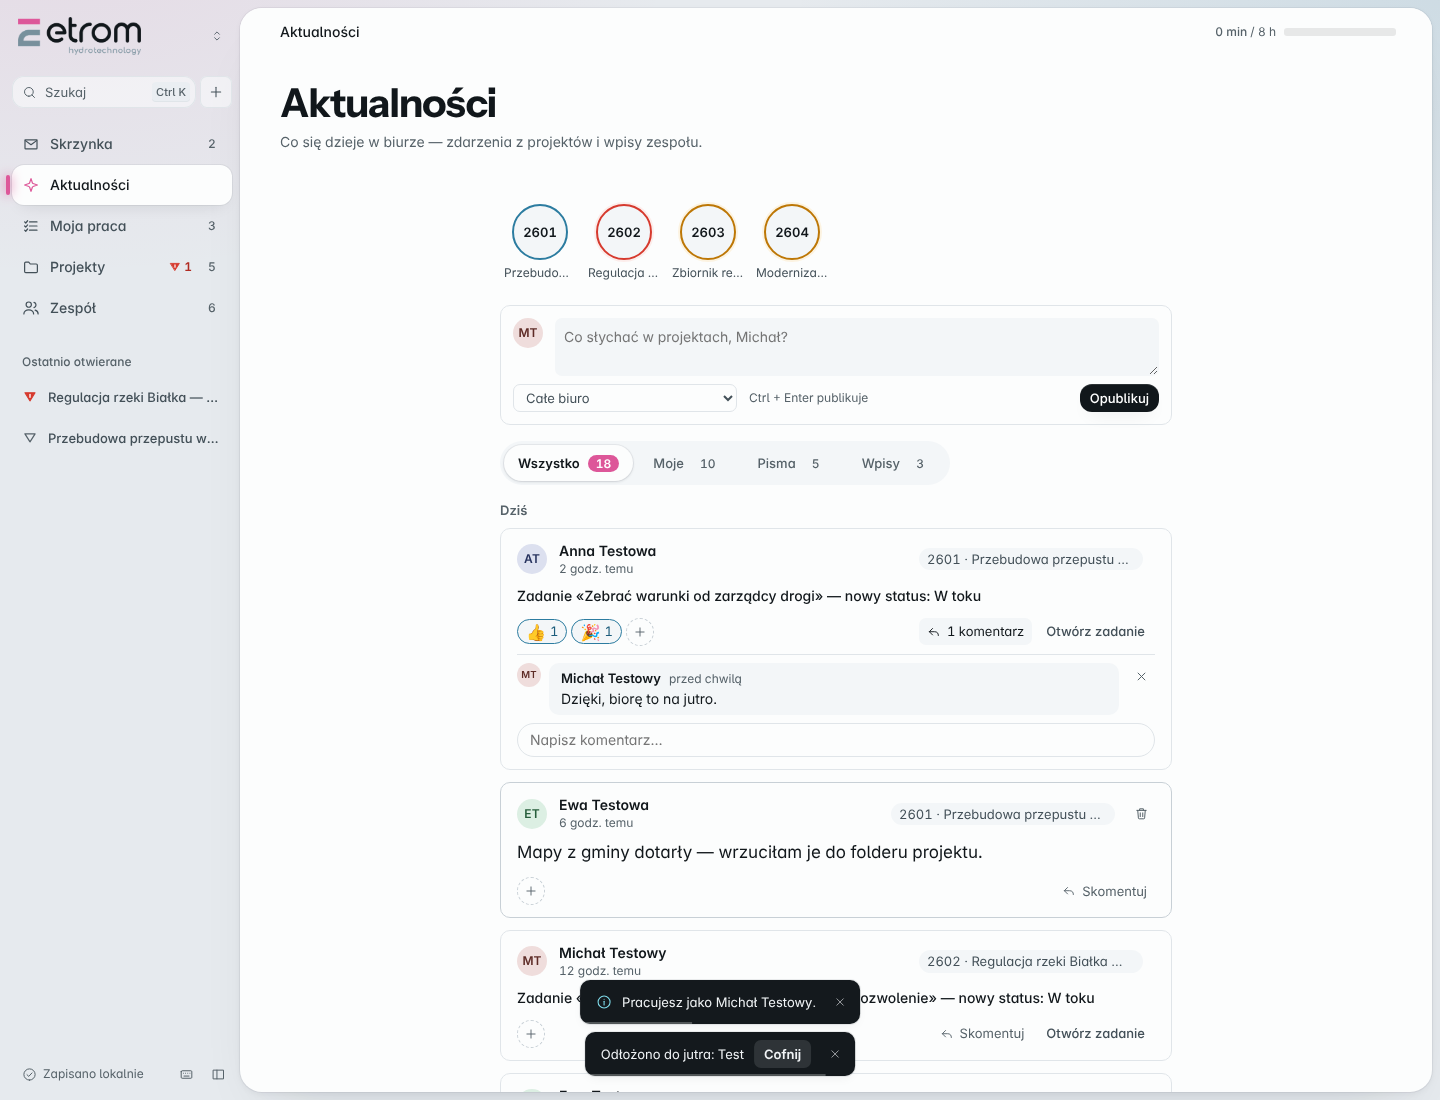
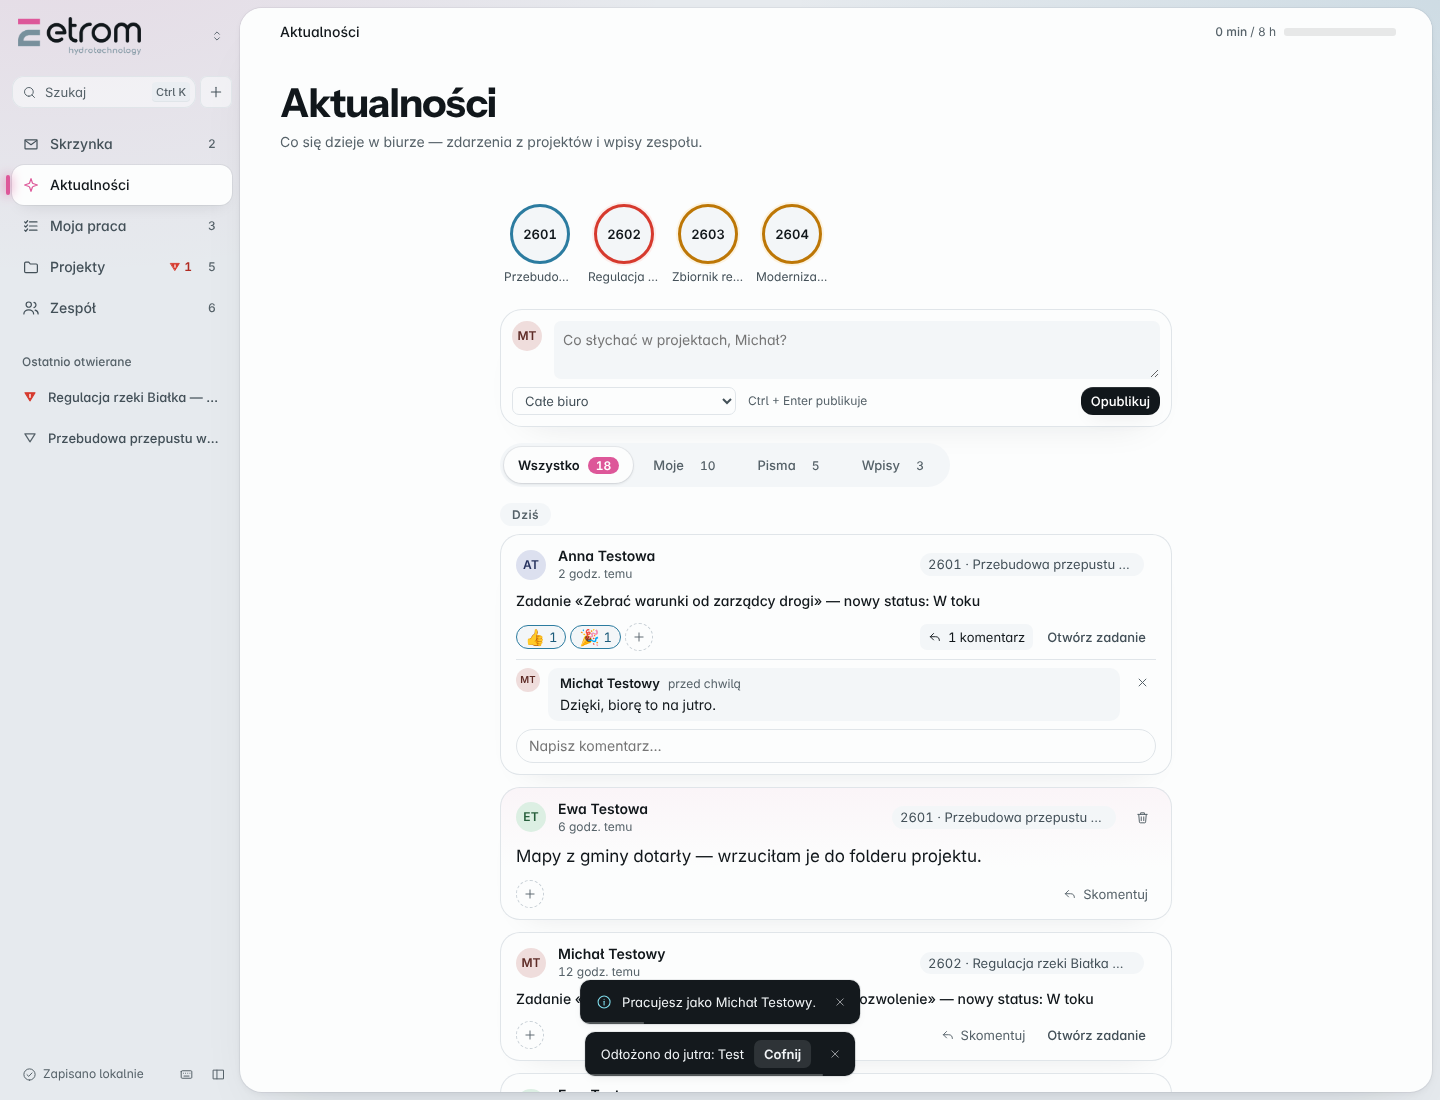
Moja praca, Skrzynka, Aktualności: wiersze-karty, powitanie, panele boczne jako karty
Claude-Session: https://claude.ai/code/session_01K4hy1AbaUhrYWgauQ4MMbV

diff --git a/styles/polish.css b/styles/polish.css
@@ -124,3 +124,38 @@ body, .app {
 .jr__label { position: absolute; top: 2.25rem; left: -0.25rem; white-space: nowrap; font-size: var(--fs-xs, .75rem); font-weight: 600; color: var(--ink); }
 @keyframes jr-pulse { 0%, 100% { box-shadow: 0 0 0 4px var(--flow-ring); } 50% { box-shadow: 0 0 0 9px transparent; } }
 @media (prefers-reduced-motion: reduce) { .jr__node--working.is-current .jr__dot { animation: none; } }
+
+/* =========================================================
+   Moja praca i Skrzynka: wiersze-karty, miękkie panele boczne
+   ========================================================= */
+.msec__head { margin-bottom: var(--space-2); }
+.msec__title { font-size: .75rem; letter-spacing: .08em; }
+.mrows, .ibx__list { display: grid; gap: 8px; border-top: 0; }
+.mrow, .ibx__row {
+  border: 0; border-radius: 16px; background: var(--sheet);
+  box-shadow: inset 0 0 0 1px var(--line);
+  padding-inline: var(--space-4);
+  transition: transform .18s cubic-bezier(.2,.8,.2,1), box-shadow .18s, background-color .18s;
+}
+.mrow:hover, .ibx__row:hover { background: var(--sheet); transform: translateY(-2px); box-shadow: inset 0 0 0 1px var(--line-strong), 0 14px 26px -18px var(--shadow-tint); }
+.ibx__row.is-urgent { box-shadow: inset 4px 0 0 var(--alarm), inset 0 0 0 1px color-mix(in srgb, var(--alarm) 30%, var(--line)); }
+.mrow.trow--overdue, .mrow[class*="overdue"] { box-shadow: inset 4px 0 0 var(--alarm), inset 0 0 0 1px color-mix(in srgb, var(--alarm) 30%, var(--line)); }
+.mrow__title .trow__name, .ibx__title { font-size: 1.0625rem; font-weight: 650; letter-spacing: -0.005em; }
+.ibx__kind { display: grid; place-items: center; width: 2rem; height: 2rem; border-radius: 50%; background: var(--wash); }
+.ibx__row.is-urgent .ibx__kind { background: var(--alarm-wash); }
+
+/* panel boczny „Dzisiaj” i „Moje projekty” jako karty */
+.mywork__aside > * { padding: var(--space-4); border-radius: 18px; background: var(--wash); box-shadow: inset 0 0 0 1px var(--line); }
+.mywork__aside { display: grid; gap: var(--space-3); align-content: start; }
+.mproject { padding: var(--space-2) 0; }
+
+/* strumień Aktualności: karty z głębią */
+.fd__card { border: 0; border-radius: 20px; box-shadow: inset 0 0 0 1px var(--line), 0 18px 34px -28px var(--shadow-tint); transition: transform .18s cubic-bezier(.2,.8,.2,1), box-shadow .18s; }
+.fd__card:hover { transform: translateY(-2px); box-shadow: inset 0 0 0 1px var(--line-strong), 0 24px 40px -26px var(--shadow-tint); }
+.fd__composer { border: 0; border-radius: 22px; box-shadow: inset 0 0 0 1px var(--line), 0 20px 40px -30px var(--shadow-tint); }
+.fd__card--post { background: linear-gradient(180deg, color-mix(in srgb, var(--brand) 5%, var(--sheet)), var(--sheet) 60%); }
+.fd__card--task { }
+.fd__daylabel { display: inline-flex; padding: 3px 12px; border-radius: 999px; background: var(--wash); font-size: .75rem; letter-spacing: .04em; }
+.fd__ring { width: 3.75rem; height: 3.75rem; border-width: 3px; }
+.fd__story--normal .fd__ring { border-color: var(--flow); }
+@media (prefers-reduced-motion: reduce) { .mrow:hover, .ibx__row:hover, .fd__card:hover { transform: none; } }

diff --git a/src/ui/app.js b/src/ui/app.js
@@ -2085,6 +2085,10 @@
 
   function renderMyWork(state) {
     var screen = E.MyWork.view(state, { actions: actions, find: locateEntry });
+    var meNow = Team.findPerson(people(), state.prefs.me);
+    var hour = new Date().getHours();
+    var hello = hour >= 5 && hour < 18 ? 'Dzień dobry' : 'Dobry wieczór';
+    document.getElementById('mywork-title').textContent = meNow ? hello + ', ' + (meNow.firstName || Team.fullName(meNow)) : 'Moja praca';
     nodes.myworkSummary.textContent = screen.summary;
     D.render(nodes.myworkWho, screen.who ? [screen.who] : []);
     D.patch(nodes.myworkBody, [screen.body]);
